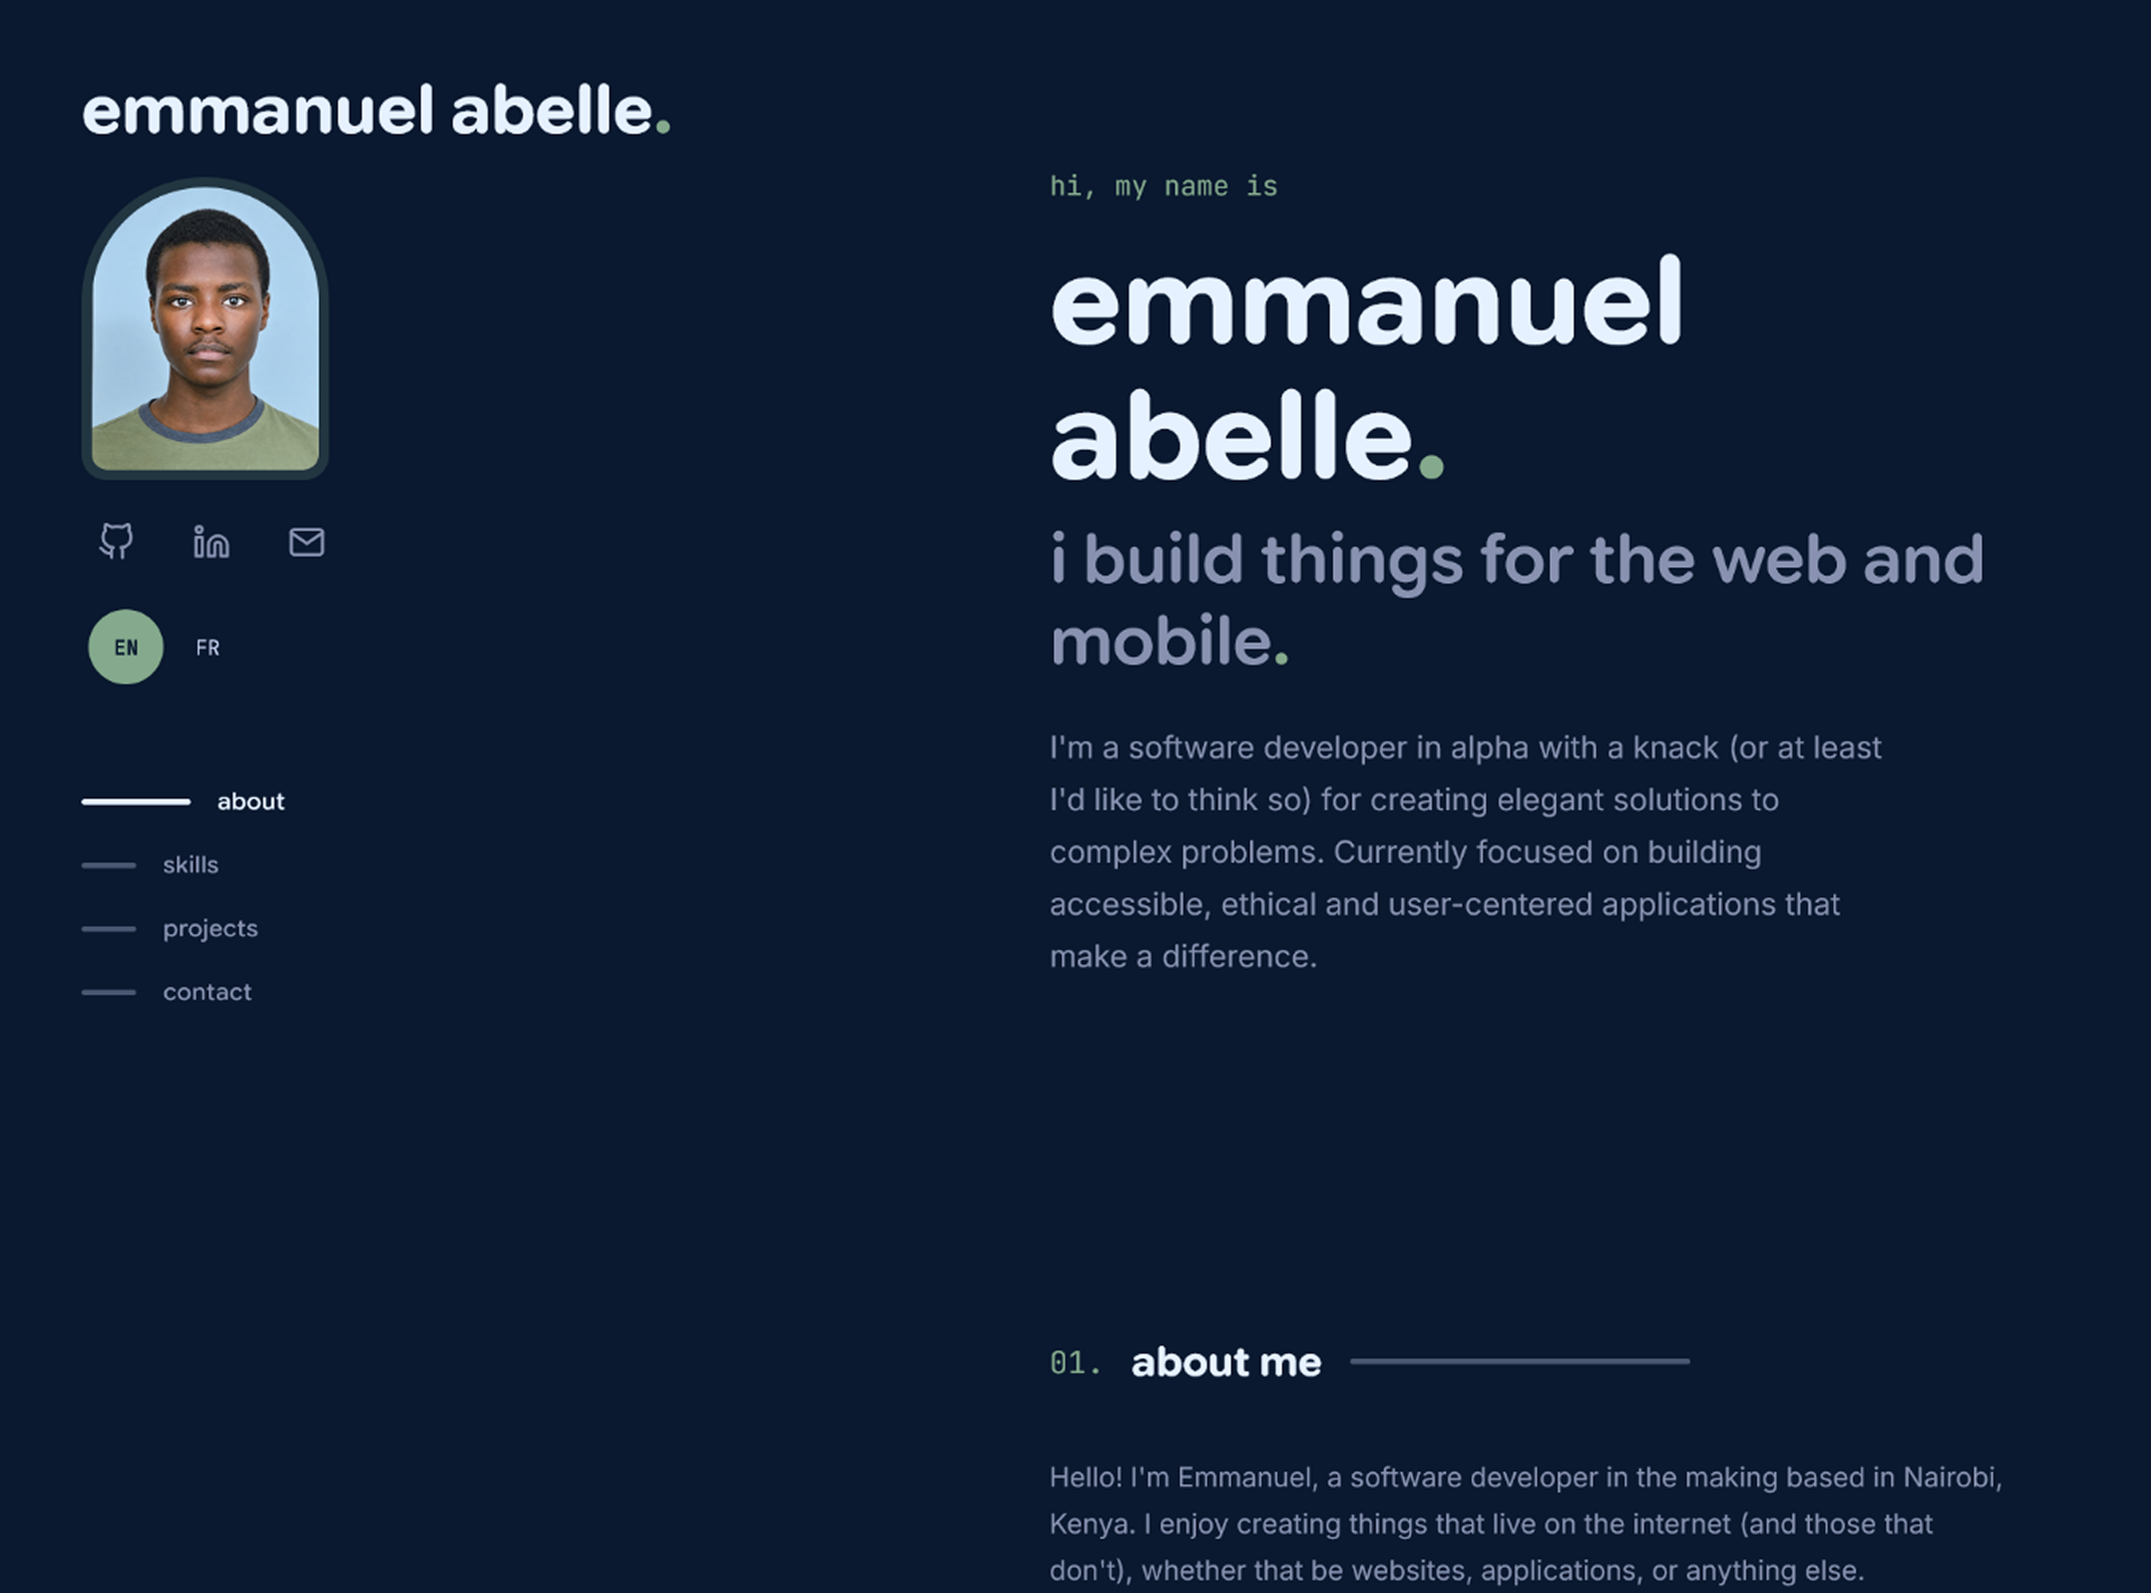
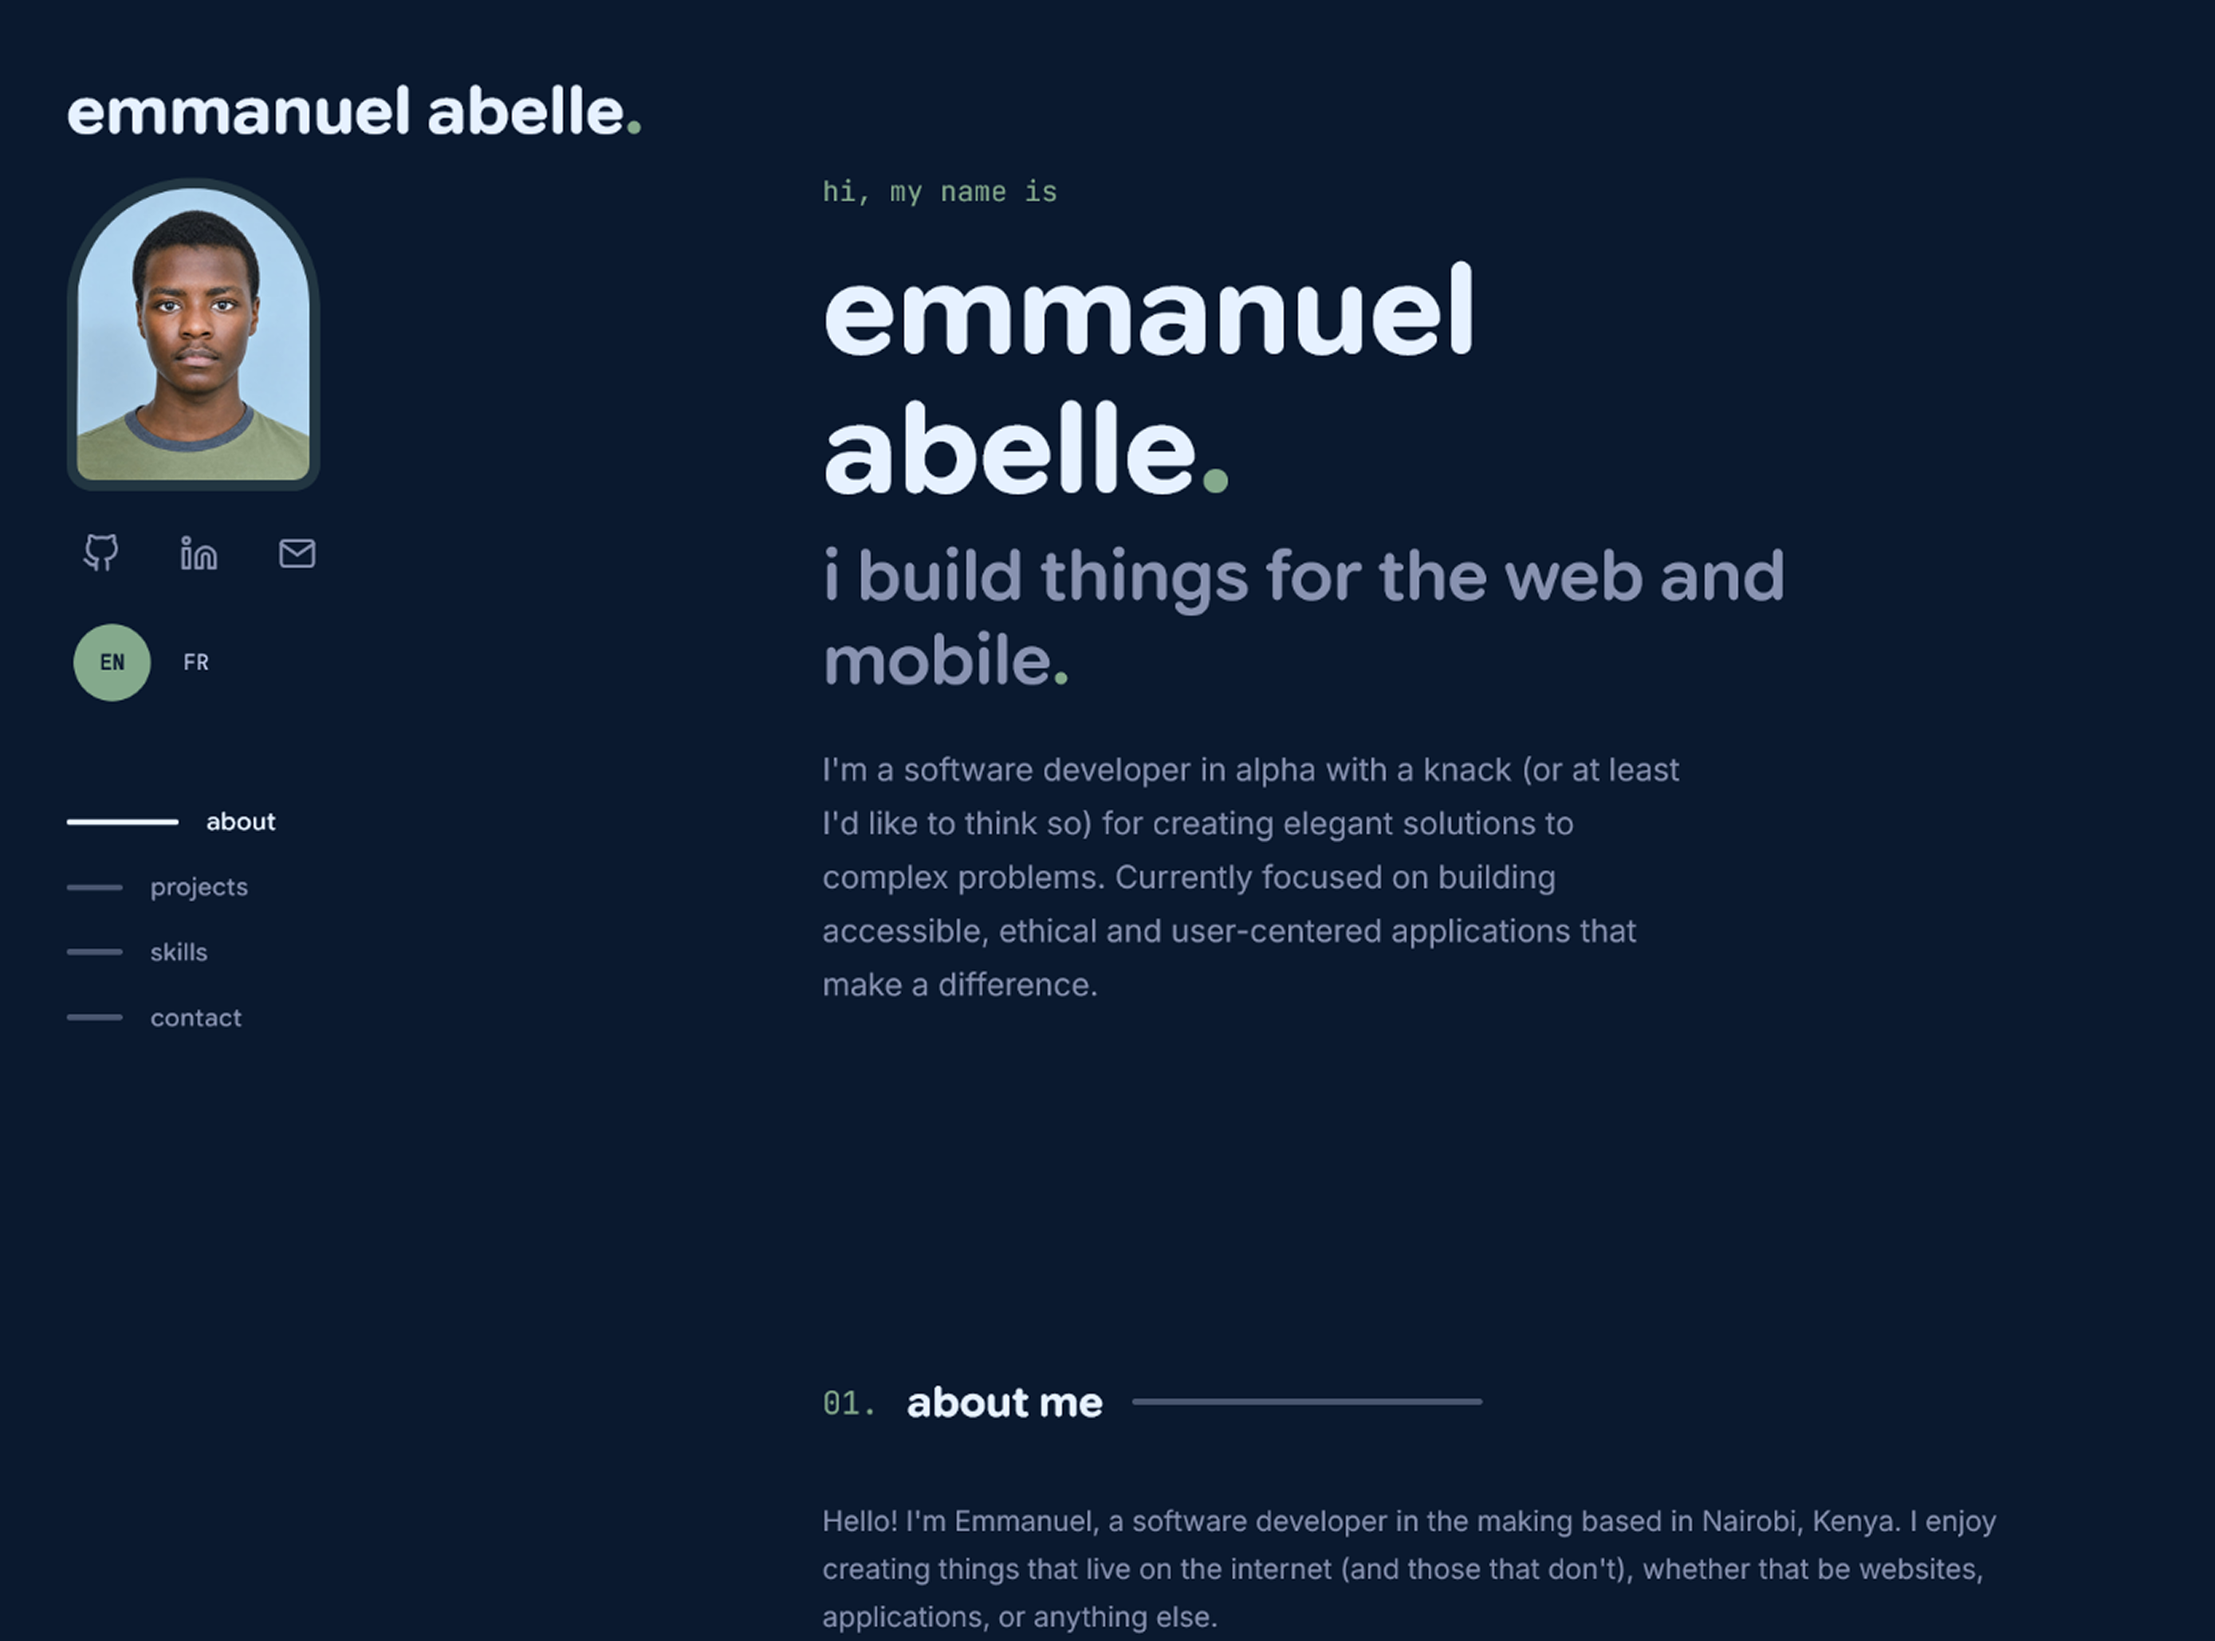
style: improve layout of  Project Card(s)

diff --git a/src/lib/components/Projects.svelte b/src/lib/components/Projects.svelte
@@ -78,8 +78,9 @@
     .project-gallery::-webkit-scrollbar { height: 5px; }
     .project-card { flex: 0 0 92%; min-width: 0; scroll-snap-align: start; background: var(--color-bg-secondary); border-radius: 1rem; overflow: hidden; }
     .project-image { position: relative; overflow: hidden; aspect-ratio: 27 / 20; background: var(--card-backdrop); }
-    .image-meta { position: absolute; z-index: 1; inset: 1.25rem 1.5rem auto; display: flex; justify-content: space-between; color: #fff; font-size: .7rem; letter-spacing: .06em; pointer-events: none; }
+    .image-meta { position: absolute; z-index: 1; inset: 1.25rem 1.5rem; display: flex; justify-content: space-between; align-items: flex-start; color: #fff; font-size: .7rem; letter-spacing: .06em; pointer-events: none; }
     .image-meta span { padding: .3rem .5rem; border-radius: .25rem; background: #0a192fcc; }
+    .image-meta span:first-child { align-self: flex-end; }
     .project-image img { display: block; position: absolute; inset: 0; width: 100%; height: 100%; object-fit: cover; }
     .project-content { padding: clamp(1.25rem, 3vw, 2rem); }
     h3 { font-size: clamp(1.65rem, 2.4vw, 2.5rem); line-height: 1.15; letter-spacing: -.035em; max-width: 18ch; margin-bottom: 1.25rem; }
